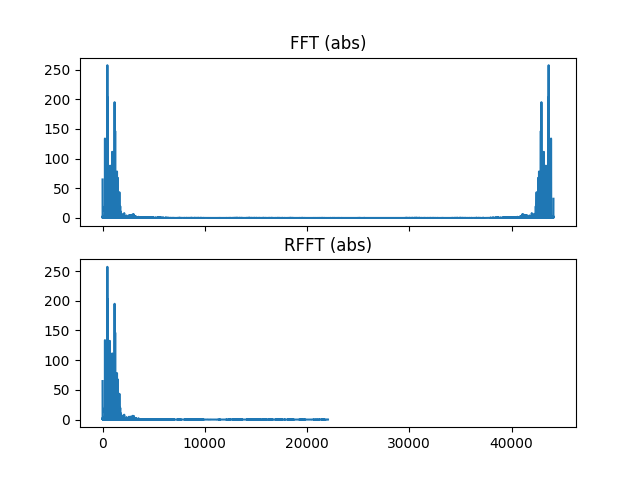
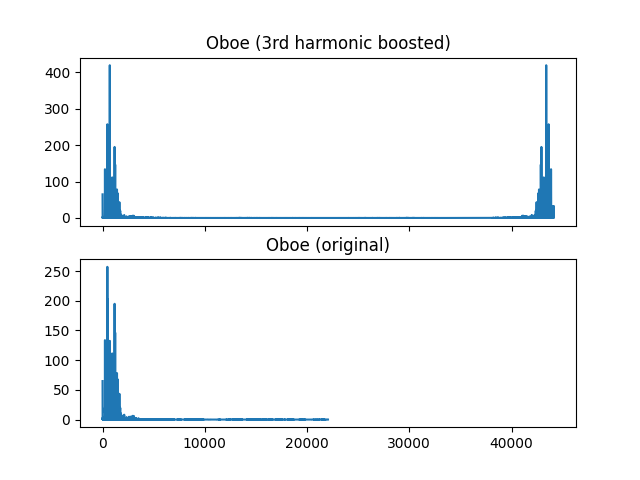
fixing labels

diff --git a/a3/a3.py b/a3/a3.py
@@ -45,10 +45,10 @@ def Q1():
 
     fr=np.arange(Nr)/N*fs 
     ax1.plot(f,np.abs(Y))
-    ax1.set_title('FFT (abs)')
+    ax1.set_title('Trumpet (5th harmonic removed)')
 
     ax2.plot(fr,np.abs(Yr))
-    ax2.set_title('RFFT (abs)')
+    ax2.set_title('Trumpet (original)')
 
     #ax_win.plot(th,h)
     #ax_win.set_title('Filter impulse response: ' + fh)
@@ -100,10 +100,10 @@ def Q2():
 
     fr=np.arange(Nr)/N*fs 
     ax1.plot(f,np.abs(Y))
-    ax1.set_title('FFT (abs)')
+    ax1.set_title('Trumpet (5th harmonic boosted)')
 
     ax2.plot(fr,np.abs(Yr))
-    ax2.set_title('RFFT (abs)')
+    ax2.set_title('Trumpet (original)')
 
     #ax_win.plot(th,h)
     #ax_win.set_title('Filter impulse response: ' + fh)
@@ -155,10 +155,10 @@ def Q3():
 
     fr=np.arange(Nr)/N*fs 
     ax1.plot(f,np.abs(Y))
-    ax1.set_title('FFT (abs)')
+    ax1.set_title('Oboe (3rd harmonic removed)')
 
     ax2.plot(fr,np.abs(Yr))
-    ax2.set_title('RFFT (abs)')
+    ax2.set_title('Oboe (original)')
 
     #ax_win.plot(th,h)
     #ax_win.set_title('Filter impulse response: ' + fh)
@@ -210,10 +210,10 @@ def Q4():
 
     fr=np.arange(Nr)/N*fs 
     ax1.plot(f,np.abs(Y))
-    ax1.set_title('FFT (abs)')
+    ax1.set_title('Oboe (3rd harmonic boosted)')
 
     ax2.plot(fr,np.abs(Yr))
-    ax2.set_title('RFFT (abs)')
+    ax2.set_title('Oboe (original)')
 
     #ax_win.plot(th,h)
     #ax_win.set_title('Filter impulse response: ' + fh)
@@ -227,5 +227,5 @@ def Q4():
     plt.show()
 #Q1()
 #Q2()
-Q3()
-#Q4()
+#Q3()
+Q4()
